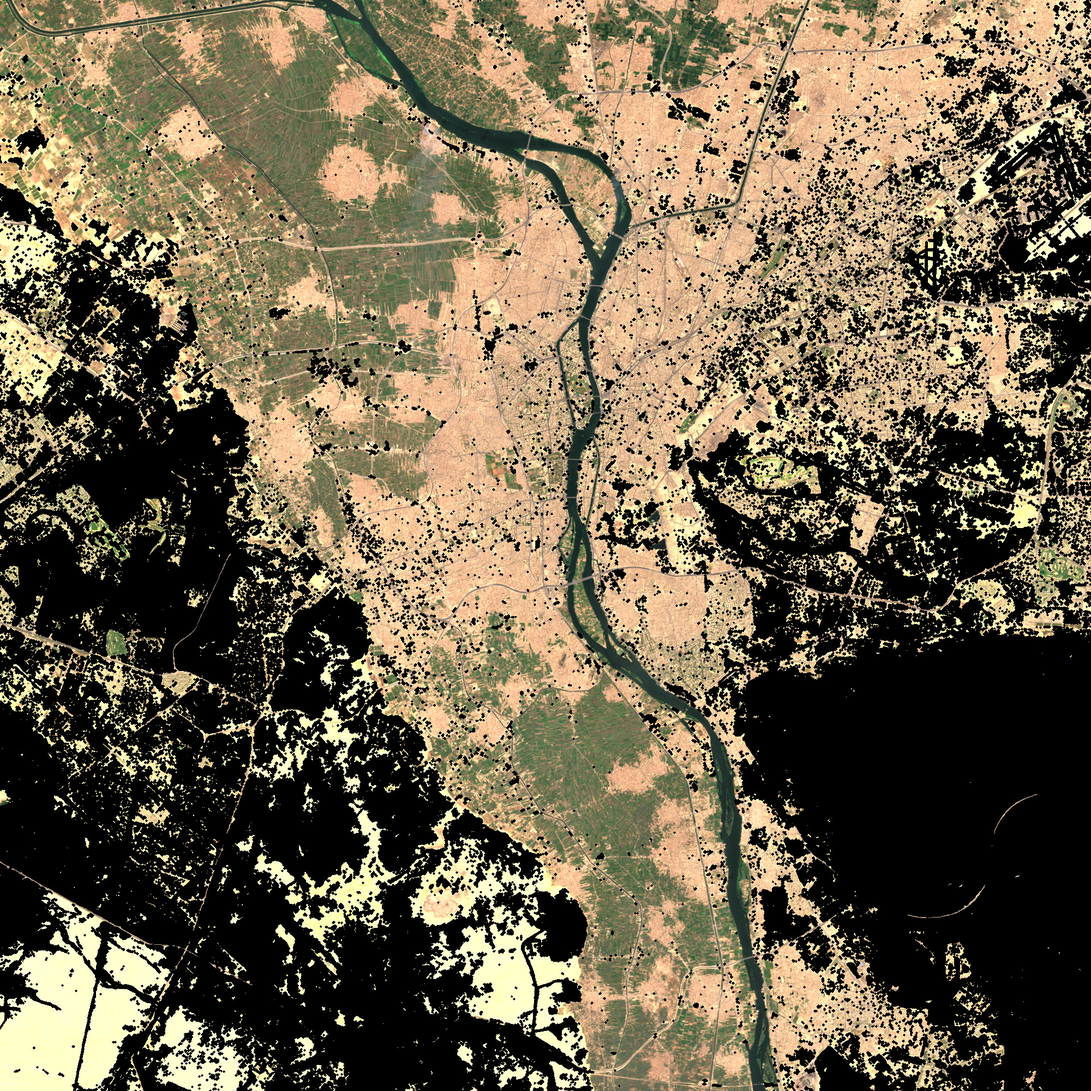
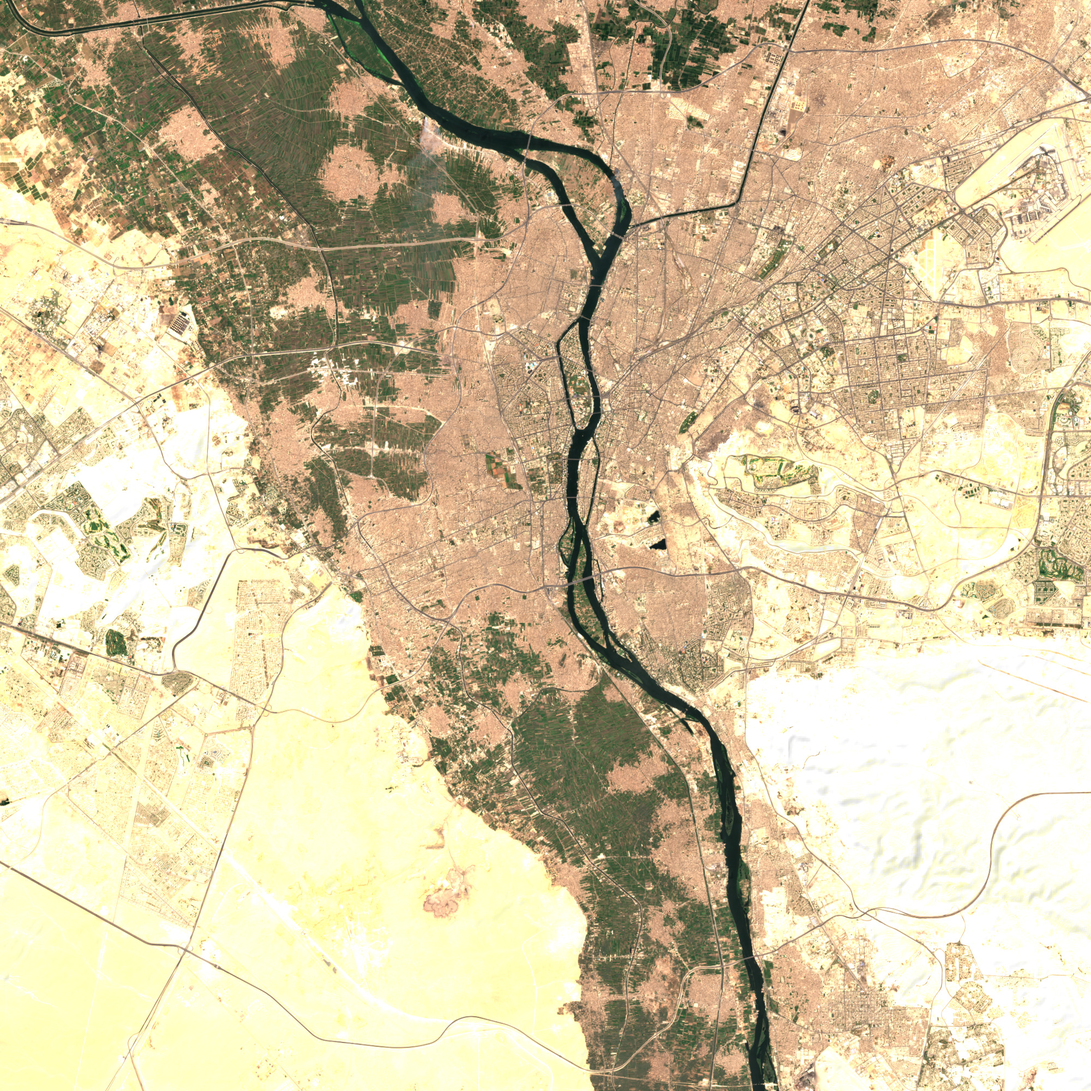
WIP pyramids: site mosaics, 3D pyramids, camera fix
Claude-Session: https://claude.ai/code/session_016GDPdwuU9SVDAaGQEZoX7w

diff --git a/piramides/src/app.js b/piramides/src/app.js
@@ -2,7 +2,7 @@ import * as THREE from 'three';
 
 /* Pirâmides: Egito x Sudão — globo -> Gizé -> descida do Nilo -> Meroë (Sentinel-2 real + relevo SRTM).
    Unidade 1 = 1000 km. Tudo é função pura de t, para render offline determinístico. */
-const W = 1080, H = 1920, R = 6.371, DEG = Math.PI / 180, PS = 6, E_SITE = 3, LIFT = 0.0006;
+const W = 1080, H = 1920, R = 6.371, DEG = Math.PI / 180, PS = 14, E_SITE = 3, LIFT = 0.0006;
 const clamp = (x, a = 0, b = 1) => Math.min(b, Math.max(a, x));
 const smooth = x => { x = clamp(x); return x * x * x * (x * (x * 6 - 15) + 10); };
 const lerp = (a, b, k) => a + (b - a) * k;
@@ -181,13 +181,14 @@ let capKey = '', cardKey = -1;
 /* ------------------------------ quadro ------------------------------ */
 function update(t) {
   const c = camState(t), dN = c.d;
+  placeCamera(t, c); camera.updateMatrixWorld();
   regMat.uniforms.uAlpha.value = smooth((7.5 - dN) / 4); const lm = smooth((dN - 1.5) / 3);
   globe.material.uniforms.uMix.value = lm; regMat.uniforms.uMix.value = lm; regMat.uniforms.uHaze.value = smooth((1.8 - dN) / 1.2);
   let near = 0;
   for (const k in SITES) { const S_ = SITES[k], dist = camera.position.distanceTo(S_.c); const a = 1 - smooth((dist - 0.22) / 0.5); S_.mat.uniforms.uAlpha.value = a; S_.mat.uniforms.uExag.value = E_SITE; S_.mat.uniforms.uMix.value = 0; S_.mat.uniforms.uHaze.value = 1; near = Math.max(near, a); }
   cloudMat.opacity = 0.5 * smooth((dN - 4) / 6); atmoMat.uniforms.uA.value = smooth((dN - 1.5) / 6) * 0.9 + 0.1 * smooth((dN - 0.3) / 1.5);
   for (const m of pyrs) { const u = smooth((t - m.userData.t0) / 0.5); m.scale.set(m.userData.r * Math.max(u, 0.0001), Math.max(m.userData.h * u, 1e-6), m.userData.r * Math.max(u, 0.0001)); m.visible = u > 0.001 && SITES[m.userData.site].mat.uniforms.uAlpha.value > 0.05; }
-  placeCamera(t, c); camera.updateMatrixWorld(); renderer.render(scene, camera);
+  renderer.render(scene, camera);
 
   const P = p => proj(p.lat, p.lon);
   // rota Gizé -> Meroë (d2) e conquista Napata -> Gizé (f3)

diff --git a/piramides/scripts/build_sites.py b/piramides/scripts/build_sites.py
@@ -1,0 +1,19 @@
+"""Gizé e Meroë: 80 km de imagem real Sentinel-2 (média de cenas de verão) + malha de altura SRTM."""
+import os, json, numpy as np
+from PIL import Image
+import build_maps as bm, build_sat_lib as bs
+os.environ.setdefault("CURL_CA_BUNDLE", "/root/.ccr/ca-bundle.crt")
+_o = bs.scenes_for; bs.scenes_for = lambda t, maxn=8: _o(t, 4); bs.SC.clear()
+SITES = {"giza": (dict(lon0=30.75, lon1=31.55, lat0=29.60, lat1=30.40), False), "meroe": (dict(lon0=33.35, lon1=34.15, lat0=16.55, lat1=17.35), True)}
+W = H = 2400; meta = json.load(open("assets/maps.json"))
+for k, (ext, masked) in SITES.items():
+    bs.MASK = False; rgb, _, _ = bs.composite(ext, W, H, 2)
+    if masked:   # Meroë: a média sem máscara fica lavada por poeira; usa a máscara e preenche os buracos
+        bs.MASK = True; rm, vm, _ = bs.composite(ext, W, H, 2); rgb = np.where(vm[..., None], rm, rgb)
+    hs, e = bs.hs_mul(ext, W, H, 10, 1.0)
+    x = bs.grade(rgb) if masked else np.clip((rgb.astype(np.float32) / 255 - 0.03) / 0.92, 0, 1) * 255
+    Image.fromarray(np.clip(x * (1 + (hs[..., None] - 0.55) * 0.35), 0, 255).astype(np.uint8)).save(f"assets/{k}_color.jpg", quality=92, subsampling=0)
+    GW = GH = 400; dem, ox, oy = bm.fetch_dem(ext["lon0"], ext["lon1"], ext["lat0"], ext["lat1"], 10)
+    bm.resample_latlon(dem, ox, oy, 10, ext["lon0"], ext["lon1"], ext["lat0"], ext["lat1"], GW + 1, GH + 1).astype("<f4").tofile(f"assets/{k}_height.bin")
+    meta[k] = {**ext, "w": W, "h": H, "gw": GW, "gh": GH}; print(k, "ok", flush=True)
+json.dump(meta, open("assets/maps.json", "w"), indent=1); print("ok")

diff --git a/piramides/scripts/fix_meroe.py b/piramides/scripts/fix_meroe.py
@@ -1,0 +1,12 @@
+import os, numpy as np
+from PIL import Image
+import build_maps as bm, build_sat_lib as bs
+os.environ.setdefault("CURL_CA_BUNDLE", "/root/.ccr/ca-bundle.crt")
+_o = bs.scenes_for; bs.scenes_for = lambda t, maxn=8: _o(t, 5); bs.SC.clear()
+ext = dict(lon0=33.55, lon1=33.95, lat0=16.78, lat1=17.12); W, H = 2100, 1900
+bs.MASK = True;  rgb_m, valid_m, _ = bs.composite(ext, W, H, 2)
+bs.MASK = False; rgb_u, _, _ = bs.composite(ext, W, H, 2)
+rgb = np.where(valid_m[..., None], rgb_m, rgb_u)
+hs, e = bs.hs_mul(ext, W, H, 11, 1.0)
+out = bs.grade(rgb) * (1 + (hs[..., None] - 0.55) * 0.35)
+Image.fromarray(np.clip(out, 0, 255).astype(np.uint8)).save("assets/meroe_color.jpg", quality=92, subsampling=0); print("ok", valid_m.mean())
